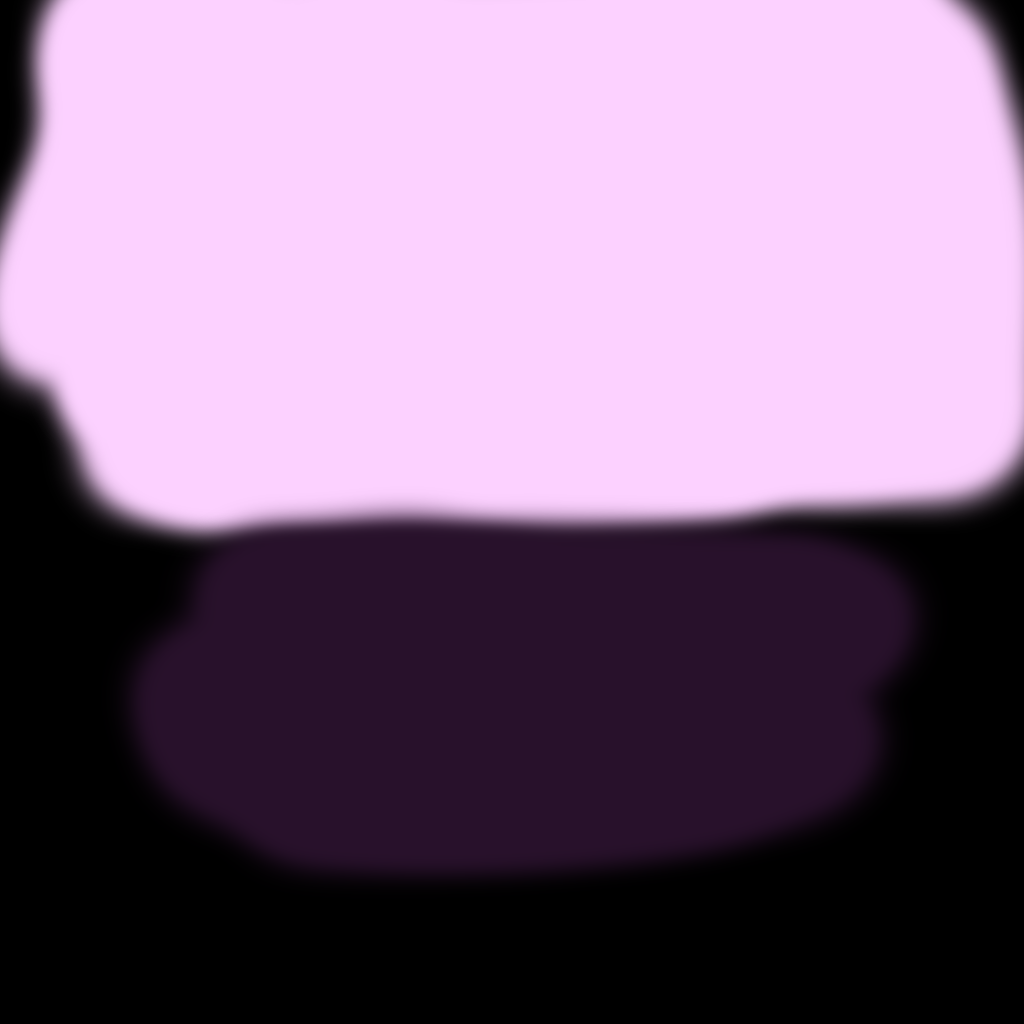
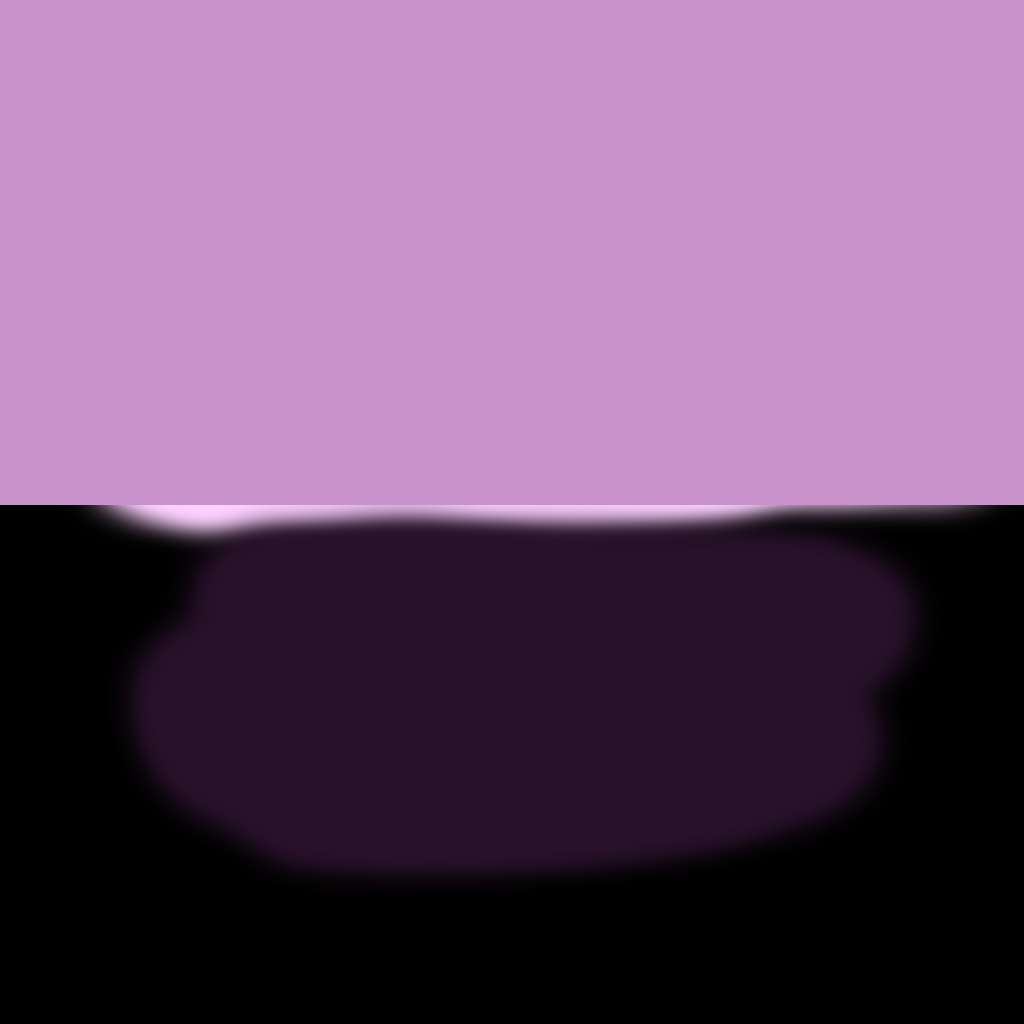
背景を動くように修正

diff --git a/DirectXGame/SkyDome.cpp b/DirectXGame/SkyDome.cpp
@@ -11,14 +11,31 @@ void SkyDome::Init( Model* model)
 {
 	model_ = model;
 	worldTransform_.Initialize();
-
+	worldTransform_.translation_.z = -10;
+	
+	worldTransform2_.Initialize();
+	worldTransform2_.translation_.z = 990;
 }
 
-void SkyDome::Update()
-{
+void SkyDome::Update() {
+	worldTransform_.translation_.z -= moveSpeed;
+	worldTransform2_.translation_.z -= moveSpeed;
+
+	if (worldTransform_.translation_.z <= -1010) {
+		worldTransform_.translation_.z = 990;
+	}
+	if (worldTransform2_.translation_.z <= -1010) {
+		worldTransform2_.translation_.z = 990;
+	}
+
+	ImGui::DragFloat("z1", &worldTransform_.translation_.z, 1);
+	ImGui::DragFloat("z2", &worldTransform2_.translation_.z, 1);
+	worldTransform_.UpdateMatrix();
+	worldTransform2_.UpdateMatrix();
 }
 
 void SkyDome::Draw(const ViewProjection& viewProjection)
 {
 	model_->Draw(worldTransform_, viewProjection);
+	model_->Draw(worldTransform2_, viewProjection);
 }

diff --git a/DirectXGame/PlayerBoomerang.cpp b/DirectXGame/PlayerBoomerang.cpp
@@ -35,7 +35,7 @@ void PlayerBoomerang::Move()
 {
 	moveDirection = { 0,0,0 };
 
-	/*if (input_->PushKey(DIK_LEFTARROW)) {
+	if (input_->PushKey(DIK_LEFTARROW)) {
 		moveDirection.x--;
 	}
 	if (input_->PushKey(DIK_RIGHTARROW)) {
@@ -47,7 +47,7 @@ void PlayerBoomerang::Move()
 	if (input_->PushKey(DIK_UPARROW)) {
 		moveDirection.y++;
 	}
-	moveDirection *= kCharacterSpeed;*/
+	moveDirection *= kCharacterSpeed;
 
 	worldTransform_.translation_ += moveDirection;
 

diff --git a/DirectXGame/SkyDome.h b/DirectXGame/SkyDome.h
@@ -2,6 +2,7 @@
 #include <WorldTransform.h>
 #include <ViewProjection.h>
 #include <Model.h>
+#include <imgui.h>
 class SkyDome
 {
 public:
@@ -14,5 +15,8 @@ private:
 	WorldTransform worldTransform_;
 	Model* model_ = nullptr;
 
+	WorldTransform worldTransform2_;
+	float moveSpeed= 0.1f;
+	
 };
 

diff --git a/DirectXGame/EnemyRotateClass.cpp b/DirectXGame/EnemyRotateClass.cpp
@@ -8,6 +8,7 @@ void EnemyRotateClass::Init(float rotateZ) {
 
 void EnemyRotateClass::Update() {
 
+	//子オブジェクトのパラメーターによる、プレイヤーのホーミング処理
 	//worldTransform_.rotation_.z += 1;
 	worldTransform_.UpdateMatrix();
 

diff --git a/DirectXGame/RailCamera.h b/DirectXGame/RailCamera.h
@@ -22,7 +22,7 @@ private:
 
 	Vector3 velocity_ = { 0,0,0 };
 	Vector3 rotate_ = { 0.0f,0.000f,0.0f };
-	float rotateSpeed = 0.1f;
+	float rotateSpeed = 0.05f;
 	Input* input_ = nullptr;
 };
 

diff --git a/DirectXGame/RailCamera.cpp b/DirectXGame/RailCamera.cpp
@@ -19,6 +19,7 @@ void RailCamera::Update() {
 	if (input_->PushKey(DIK_D)) {
 		worldTransfome_.rotation_.z += rotateSpeed;
 	}
+	
 	// worldTransfome_.UpdateMatrix();
 
 #ifdef _DEBUG
